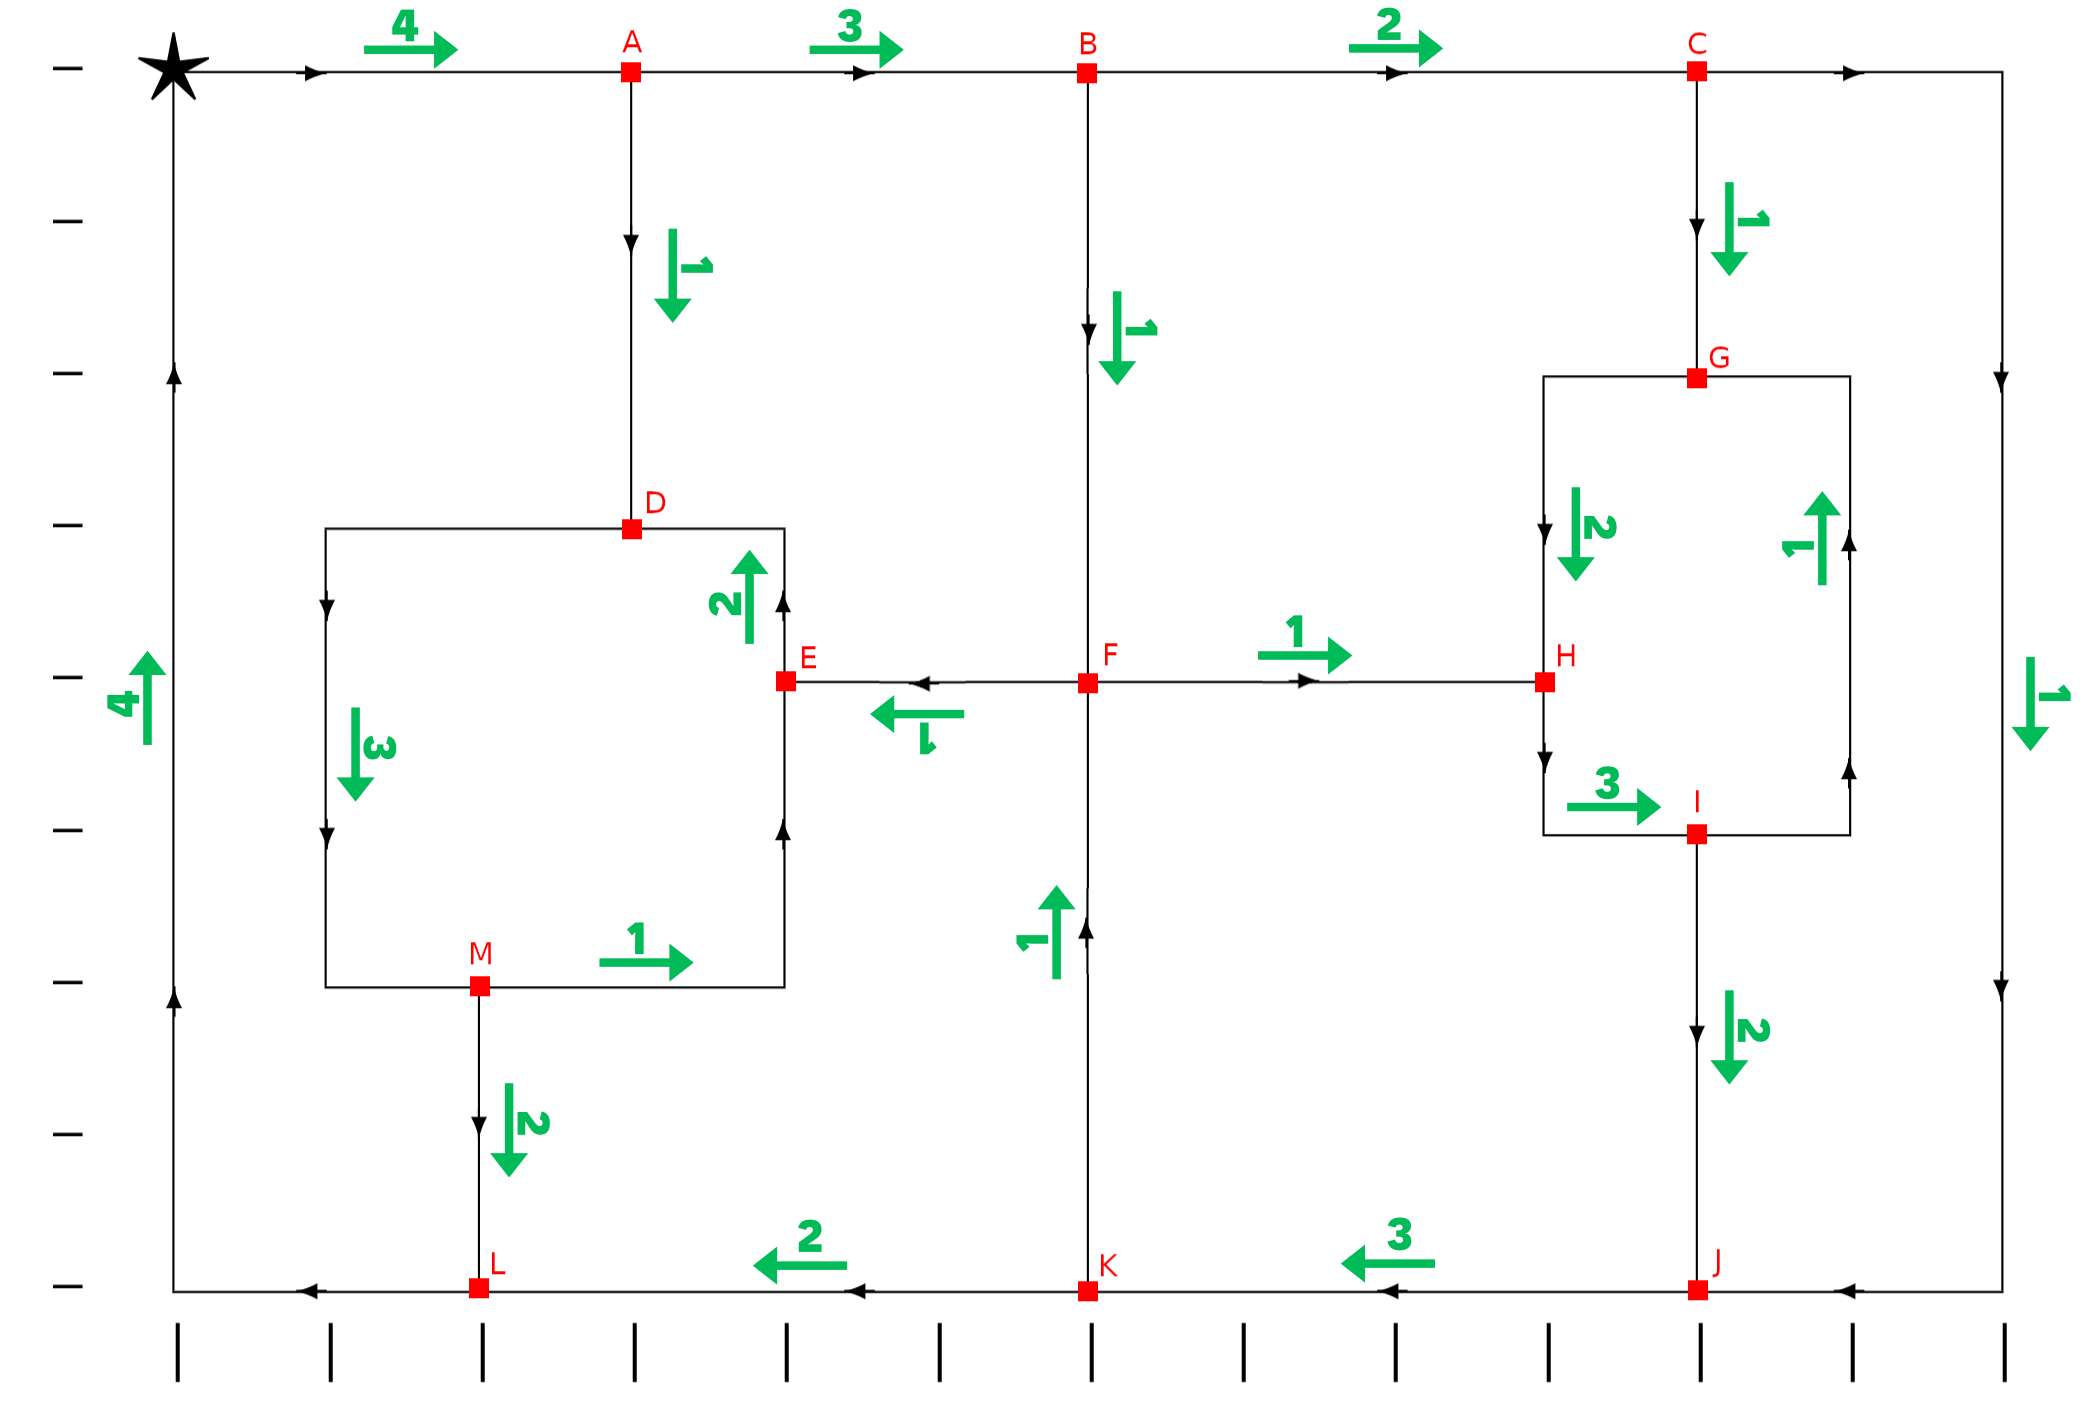
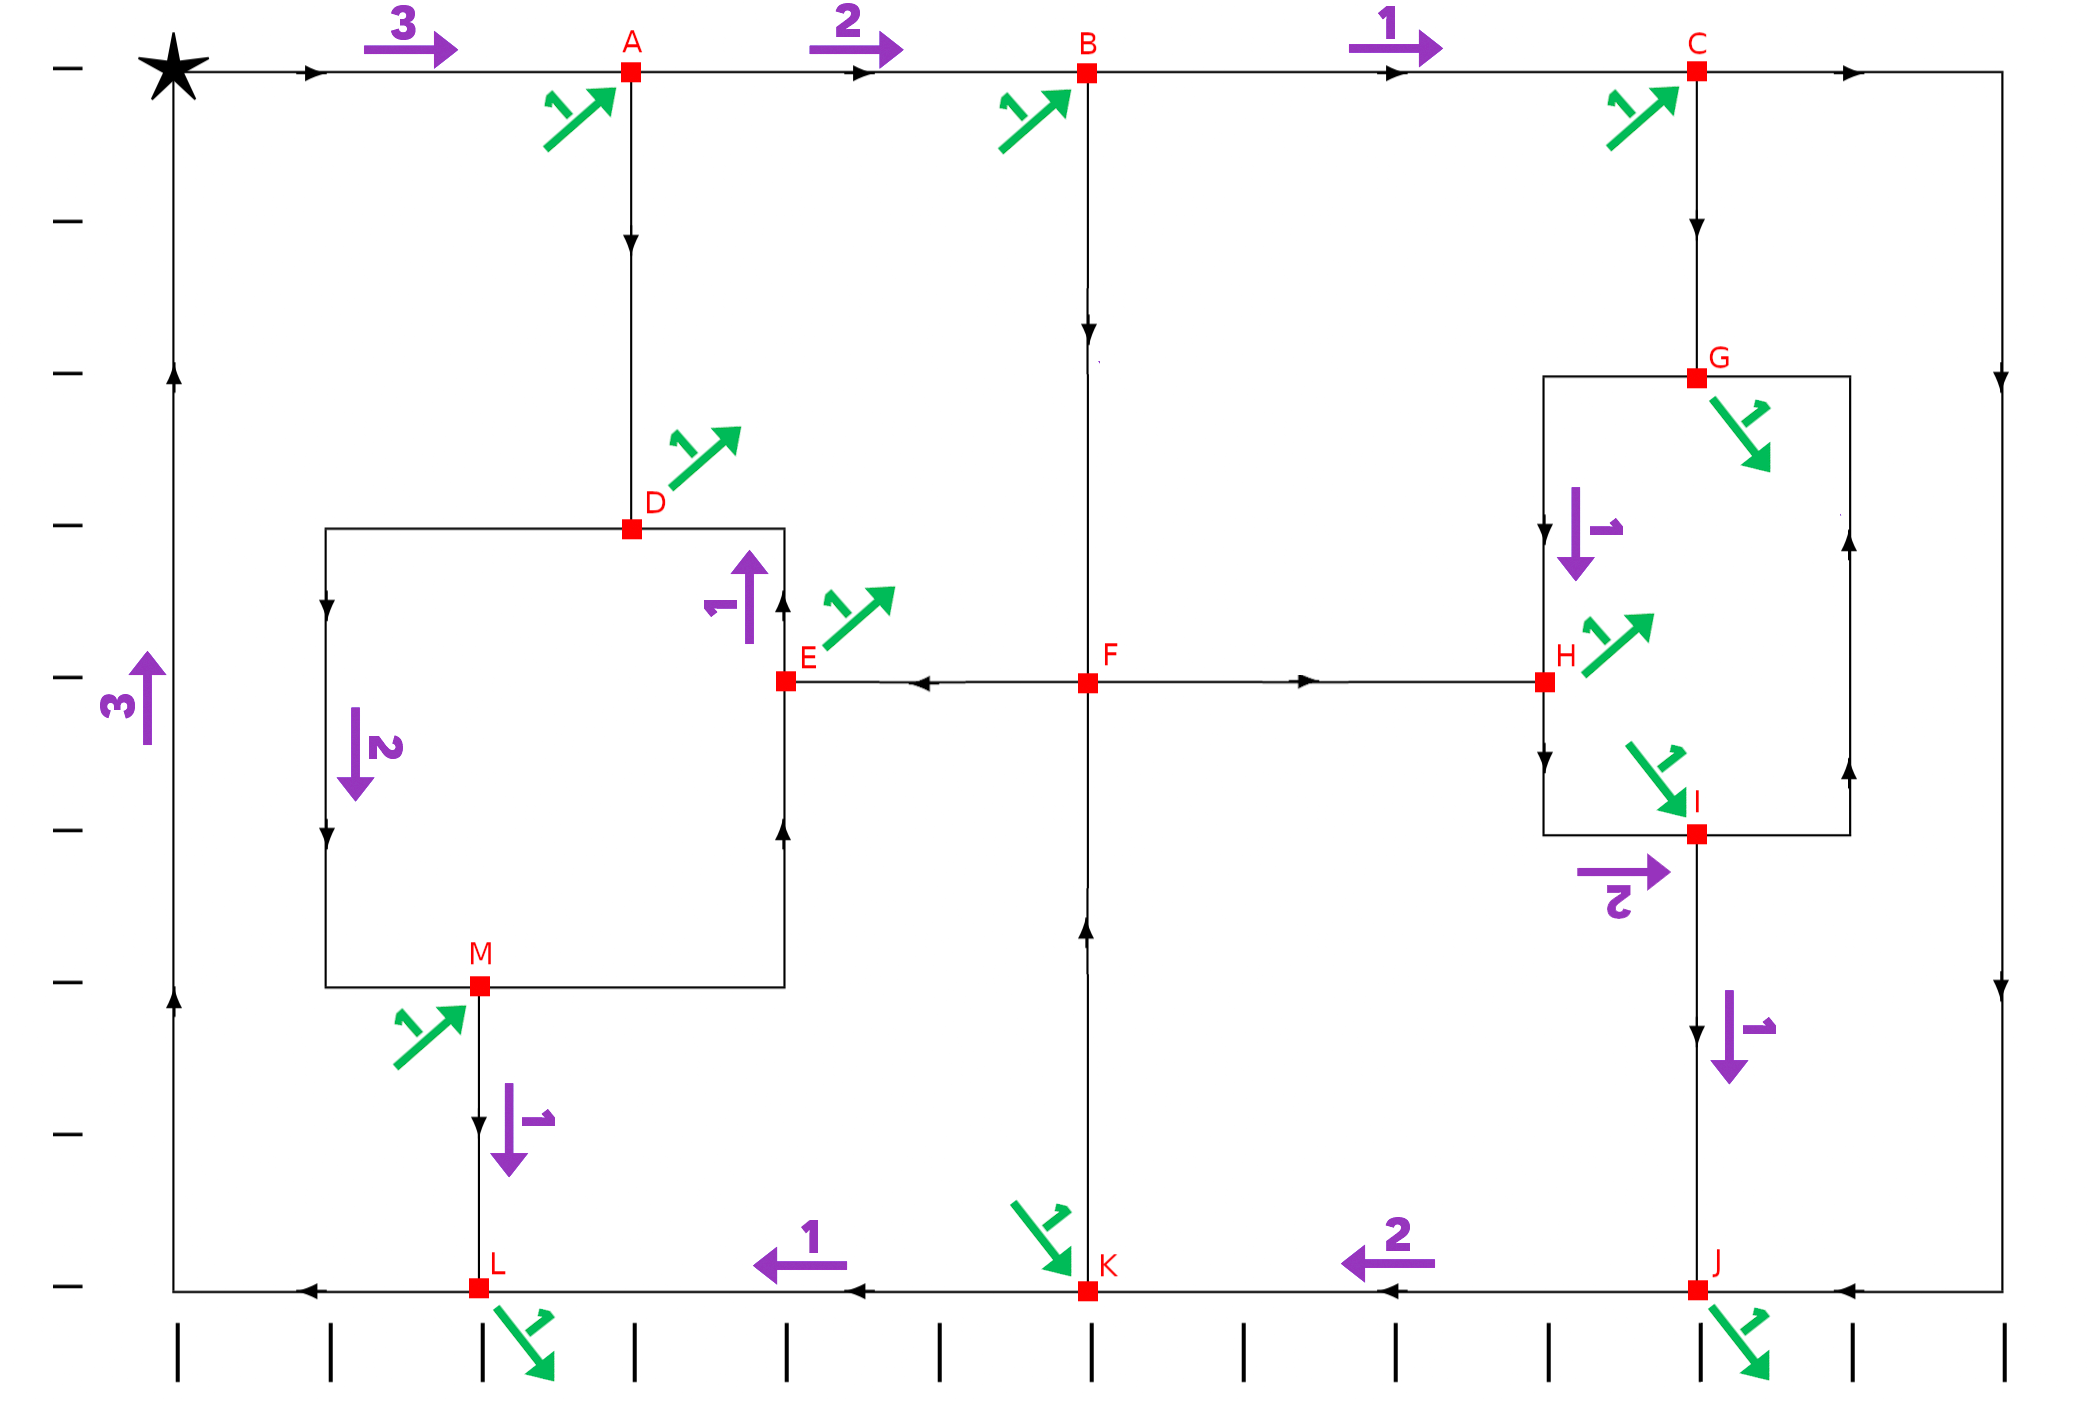
is part 1 done?

diff --git a/PL2/report/Report.tex b/PL2/report/Report.tex
@@ -117,7 +117,7 @@ problema de transporte numa rede geral \textit{G=(V, A)}.
 \subsection{Arestas}
 A variável de decisão \textit{xij} representa o número de vezes que o arco (i,
 j) foi percorrido.\\
-Visto que o objetivo deste problema é que cada arco seja visitado pelo menos
+Visto que o objetivo deste problema é que cada arco seja atravessado pelo menos
 uma vez, é necessária a existencia de um bloco de condições que indiquem que
 \textit{xij >= 1}.\\
 No entanto, o \textit{software} de resolução de problemas em rede normalmente
@@ -154,69 +154,14 @@ que pode ser simplificado para:
 
 \pagebreak
 \section{Rede do Problema de Transporte}
+
 \begin{figure}[H]
-\centering
-\begin{tikzpicture}[scale=1,transform shape]
-  \Vertex[x=0,y=10]{d}
-  \Vertex[x=0,y=8]{e}
-  \Vertex[x=0,y=6]{l}
-  \Vertex[x=0,y=4]{h}
-  \Vertex[x=0,y=2]{g}
-  \Vertex[x=0,y=0]{j}
-
-  \Vertex[x=5,y=6]{f}
-
-  \Vertex[x=10,y=10]{m}
-  \Vertex[x=10,y=8]{a}
-  \Vertex[x=10,y=6]{b}
-  \Vertex[x=10,y=4]{c}
-  \Vertex[x=10,y=2]{k}
-  \Vertex[x=10,y=0]{i}
-
-  \tikzstyle{LabelStyle}=[fill=gray!30]
-  \tikzstyle{EdgeStyle}=[post]
-  \Edge[label=$13$](l)(a)
-  \Edge[label=$3$](a)(b)
-  \Edge[label=$4$](b)(c)
-  \Edge[label=$12$](c)(j)
-  \Edge[label=$4$](j)(k)
-  \Edge[label=$4$](k)(l)
-  \Edge[label=$4$](k)(f)
-  \Edge[label=$2$](f)(e)
-  \Edge[label=$2$](e)(d)
-  \Edge[label=$6$](d)(m)
-  \Edge[label=$2$](m)(l)
-  \Edge[label=$3$](a)(d)
-  \Edge[label=$4$](b)(f)
-  \Edge[label=$3$](f)(h)
-  \Edge[label=$2$](c)(g)
-  \Edge[label=$3$](g)(h)
-  \Edge[label=$2$](h)(i)
-  \Edge[label=$3$](i)(j)
-  \Edge[label=$5$](i)(g)
-  \Edge[label=$4$](m)(e)
-\end{tikzpicture}
+    \begin{center}
+        \includegraphics[width=0.9\textwidth]{images/redeTransporte.png}\par
+        \caption{rede do problema de transporte}
+        \label{fig:redeTransporte}
+    \end{center}
 \end{figure}
-
-\subsection{Valores de Oferta}
-\begin{itemize}
-    \item Nodo d : 1
-    \item Nodo e : 1
-    \item Nodo g : 1
-    \item Nodo h : 1
-    \item Nodo j : 1
-    \item Nodo k : 1
-\end{itemize}
-
-\subsection{Valores de Procura}
-\begin{itemize}
-    \item Nodo a : -1
-    \item Nodo b : -1
-    \item Nodo c : -1
-    \item Nodo i : -1
-    \item Nodo k : -1
-    \item Nodo m : -1
-\end{itemize}
 De forma a que o input gerado para o \textit{RELAX4} seja válido é necessário
 converter o nome dos nodos para números. Assim, o método utilizado é atribuir
 como número a cada nodo o valor da posição da letra no alfabeto.
@@ -229,7 +174,7 @@ como número a cada nodo o valor da posição da letra no alfabeto.
 
 \pagebreak
 \section{Texto de Output}
-\label{input}
+\label{output}
 \verbatiminput{RELAX4.PT1.OUT}
 
 \pagebreak
@@ -247,7 +192,7 @@ Assim, de forma a facilitar a interpretação dos resultados consideramos como
 ponto inicial o ponto A. Esta decisão em nada altera o problema.\\
 A fim de facilitar a visualização dos resultados obtidos decidimos criar uma
 imagem \ref{fig:visited} que indica para cada arco o número de vezes que este
-foi visitada.
+foi atravessado omitindo aqueles que nunca são atravessados.
 
 \begin{figure}[H]
     \begin{center}
@@ -256,47 +201,17 @@ foi visitada.
         \label{fig:visited}
     \end{center}
 \end{figure}
-Na nossa solução (capitulo \ref{output}) a variável \textit{yla} é igual a 3, o
-que quer dizer que este arco foi percorrida 4 vezes e na ultima vez todos os
-outros tem de ter sido no mínimo percorridos uma vez.\\
-Sabendo isto desenvolvemos a imagem \ref{fig:path} que contém o caminho ótimo
-calculado. Este, está dividido em quatro percursos distintos que começam e
-acabam em A.\\
-Um dos problemas encontrados no cálculo destes caminhos é que um arco ter sido
-visitada uma vez durante o percurso não implica que não volte a ser visitada
-nesse mesmo percurso.
+Analisando esta imagem, conseguimos obter o conjunto ótimo de caminhos de
+reposicionamento entre os vértices de excesso e os vértices de defeito.
 
-\begin{figure}[H]
-    \begin{center}
-        \includegraphics[width=0.9\textwidth]{images/desafioSolucao.png}\par
-        \caption{representação do caminho}
-        \label{fig:path}
-    \end{center}
-\end{figure}
-A fim de facilitar a interpretação da imagem, elaboramos uma legenda para cada
-um dos caminhos tomados:
-
-\begin{enumerate}
-    \item Verde: \\
-    AB → BC → CJ → JK → KF → FE → ED → DM → ML → LA
-    \item Amarelo: \\
-    AB → BC → CG → GH → HI  → IG → GH → HI → IJ → JK  → KL  → LA
-    \item Azul: \\
-    AB → BF → FH→ HI  → IJ → JK  → KL  → LA
-    \item Rosa: \\
-    AD → DM → ME → ED  → DM → ML → LA
-\end{enumerate}
-Visto que estes 4 segmentos da solução ótima começam e acabam no nodo A podem
-ser organizados por qualquer ordem que irá criar um percurso válido e sempre com
-o mesmo custo. Assim, qualquer combinação destes 4 percurso produz uma solução
-ótima válida para o problema apresentado.\\
-De forma a apresentar uma solução concreta, escolhemos o percurso que consiste
-em percorrer os segmentos da solução ótima pela ordem Verde → Amarelo → Azul →
-Rosa. Este corresponde ao percurso:\\
-AB → BC → CJ → JK → KF → FE → ED → DM → ML → LA →
-AB → BC → CG → GH → HI  → IG → GH → HI → IJ → JK  → KL  → LA →
-AB → BF → FH→ HI  → IJ → JK  → KL  → LA →
-AD → DM → ME → ED  → DM → ML → LA
+\begin{itemize}
+        \item GH $\rightarrow$ HI
+        \item HI $\rightarrow$ IJ $\rightarrow$ JK
+        \item JK $\rightarrow$ KL $\rightarrow$ LA $\rightarrow$ AB $\rightarrow$ BC
+        \item LA $\rightarrow$ AB
+        \item ED $\rightarrow$ DM
+        \item DM $\rightarrow$ ML $\rightarrow$ LA
+\end{itemize}
 
 \pagebreak
 \section{Validação do modelo}
@@ -309,10 +224,9 @@ vez e ocorreu uma mudança de variável, todas as variáveis têm de ter um valo
 maior ou igual a zero, o que de facto se verifica.
 
 \subsection{Função objetivo}
-O resultado da função objetivo utilizada no modelo quando o valor
-das variáveis é manualmente substituindo pela solução ótima tem de 
-coincidir com o resultado obtido.
-Assim:
+O resultado da função objetivo utilizada no modelo quando o valor das variáveis
+é manualmente substituindo pela solução ótima tem de coincidir com o resultado
+obtido. Assim:
 
 \begin{multline}
 13\times yla + 3\times yab + 4\times ybc + 12\times ycj + 4\times
@@ -410,8 +324,110 @@ M: - ydm + yml + yme = -1
 
 
 \chapter{Parte II}
+\pagebreak
 \section{Grafo bipartido}
 
+\begin{figure}[H]
+\centering
+\begin{tikzpicture}[scale=1,transform shape]
+  \Vertex[x=0,y=10]{d}
+  \Vertex[x=0,y=8]{e}
+  \Vertex[x=0,y=6]{l}
+  \Vertex[x=0,y=4]{h}
+  \Vertex[x=0,y=2]{g}
+  \Vertex[x=0,y=0]{j}
+
+  \Vertex[x=5,y=6]{f}
+
+  \Vertex[x=10,y=10]{m}
+  \Vertex[x=10,y=8]{a}
+  \Vertex[x=10,y=6]{b}
+  \Vertex[x=10,y=4]{c}
+  \Vertex[x=10,y=2]{k}
+  \Vertex[x=10,y=0]{i}
+
+  \tikzstyle{LabelStyle}=[fill=gray!30]
+  \tikzstyle{EdgeStyle}=[post]
+  \Edge[label=$13$](l)(a)
+  \Edge[label=$3$](a)(b)
+  \Edge[label=$4$](b)(c)
+  \Edge[label=$12$](c)(j)
+  \Edge[label=$4$](j)(k)
+  \Edge[label=$4$](k)(l)
+  \Edge[label=$4$](k)(f)
+  \Edge[label=$2$](f)(e)
+  \Edge[label=$2$](e)(d)
+  \Edge[label=$6$](d)(m)
+  \Edge[label=$2$](m)(l)
+  \Edge[label=$3$](a)(d)
+  \Edge[label=$4$](b)(f)
+  \Edge[label=$3$](f)(h)
+  \Edge[label=$2$](c)(g)
+  \Edge[label=$3$](g)(h)
+  \Edge[label=$2$](h)(i)
+  \Edge[label=$3$](i)(j)
+  \Edge[label=$5$](i)(g)
+  \Edge[label=$4$](m)(e)
+\end{tikzpicture}
+\end{figure}
+
+\begin{figure}[H]
+\centering
+\begin{tikzpicture}[scale=1,transform shape]
+  \Vertex[x=0,y=10]{d}
+  \Vertex[x=0,y=8]{e}
+  \Vertex[x=0,y=6]{l}
+  \Vertex[x=0,y=4]{h}
+  \Vertex[x=0,y=2]{g}
+  \Vertex[x=0,y=0]{j}
+
+  \Vertex[x=10,y=10]{m}
+  \Vertex[x=10,y=8]{a}
+  \Vertex[x=10,y=6]{b}
+  \Vertex[x=10,y=4]{c}
+  \Vertex[x=10,y=2]{k}
+  \Vertex[x=10,y=0]{i}
+
+  \tikzstyle{LabelStyle}=[fill=gray!30]
+  \tikzstyle{EdgeStyle}=[post]
+  \Edge[label=$13$](d)(m)
+  \Edge[label=$13$](d)(a)
+  \Edge[label=$13$](d)(b)
+  \Edge[label=$13$](d)(c)
+  \Edge[label=$13$](d)(k)
+  \Edge[label=$13$](d)(i)
+  \Edge[label=$13$](e)(m)
+  \Edge[label=$13$](e)(a)
+  \Edge[label=$13$](e)(b)
+  \Edge[label=$13$](e)(c)
+  \Edge[label=$13$](e)(k)
+  \Edge[label=$13$](e)(i)
+  \Edge[label=$13$](l)(m)
+  \Edge[label=$13$](l)(a)
+  \Edge[label=$13$](l)(b)
+  \Edge[label=$13$](l)(c)
+  \Edge[label=$13$](l)(k)
+  \Edge[label=$13$](l)(i)
+  \Edge[label=$13$](h)(m)
+  \Edge[label=$13$](h)(a)
+  \Edge[label=$13$](h)(b)
+  \Edge[label=$13$](h)(c)
+  \Edge[label=$13$](h)(k)
+  \Edge[label=$13$](h)(i)
+  \Edge[label=$13$](g)(m)
+  \Edge[label=$13$](g)(a)
+  \Edge[label=$13$](g)(b)
+  \Edge[label=$13$](g)(c)
+  \Edge[label=$13$](g)(k)
+  \Edge[label=$13$](g)(i)
+  \Edge[label=$13$](j)(m)
+  \Edge[label=$13$](j)(a)
+  \Edge[label=$13$](j)(b)
+  \Edge[label=$13$](j)(c)
+  \Edge[label=$13$](j)(k)
+  \Edge[label=$13$](j)(i)
+\end{tikzpicture}
+\end{figure}
 
 
 
